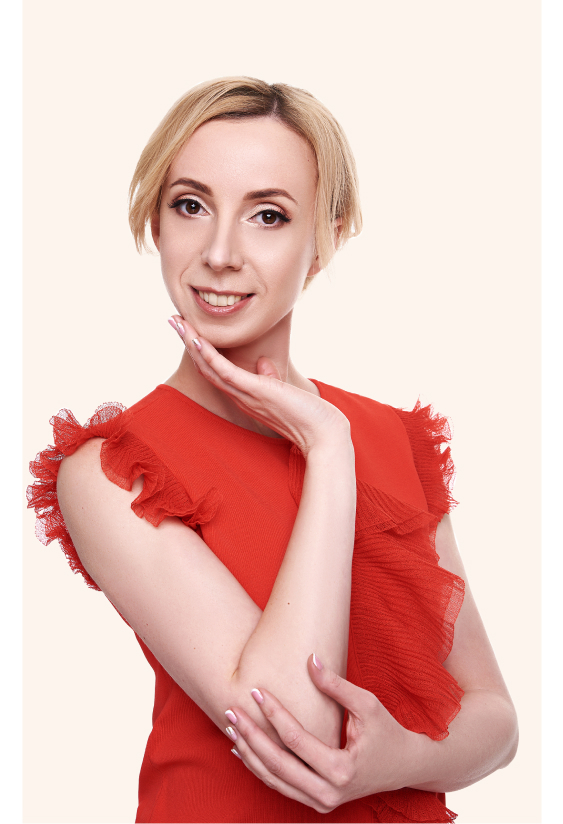
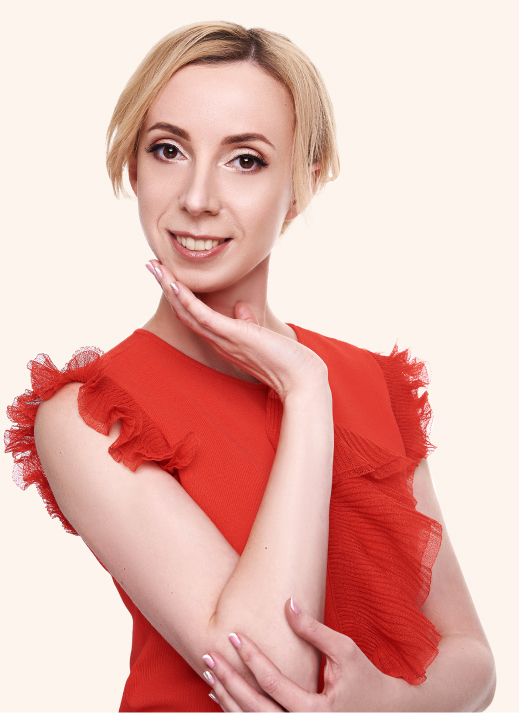
fix main block

Changed region(s): [[0.0, 0.0309, 0.9557, 1.0]]

diff --git a/index.html b/index.html
@@ -9,7 +9,7 @@
     <link rel="stylesheet" href="sass/style.css">
 </head>
 <body>
-    <header class="header mb-170">
+    <header class="header mb-120">
         <nav class="navbar navbar-expand-lg navbar-light">
             <div class="container">
                 <a class="navbar-brand" href="#"><img src="images/logo.svg"></a>
@@ -50,7 +50,7 @@
         <div class="offer">
             <div class="container">
                 <div class="row">
-                    <div class="col-lg-7">
+                    <div class="col-lg-7 text-lg-start text-center">
                         <h1>Онлайн-курс по фейсфитнесу с личным тренером</h1>
                         <div class="header-desc">для тех, кто хочет сохранить молодость
                             и красоту своего лица</div>
@@ -78,11 +78,15 @@
                             </div>
                         </div>
                     </div>
-                    <div class="col-lg-5">
+                    <div class="col-lg-5 d-lg-block d-none">
                         <div class="hero"></div>
                     </div>
                 </div>
             </div>
+        </div>
+        <div class="d-block d-lg-none position-relative">
+            <div class="hero-mobile-decor"></div>
+            <div class="hero-mobile w-100 h-100"></div>
         </div>
     </header>
 
@@ -610,13 +614,11 @@
                             </div>
                             <div class="col-lg-3 col-6">
                                 <div class="card-body">
-                                    <div class="card-before">До</div>
                                     <img src="images/photo_before.png" alt="Photo before" class="w-100 h-100">
                                 </div>
                             </div>
                             <div class="col-lg-3 col-6">
                                 <div class="card-body">
-                                    <div class="card-after">После</div>
                                     <img src="images/photo_after.png" alt="Photo after" class="w-100 h-100">
                                 </div>
                             </div>
@@ -634,13 +636,11 @@
                             </div>
                             <div class="col-lg-3 col-6">
                                 <div class="card-body">
-                                    <div class="card-before">До</div>
                                     <img src="images/photo_before_2.png" alt="Photo before" class="w-100 h-100">
                                 </div>
                             </div>
                             <div class="col-lg-3 col-6">
                                 <div class="card-body">
-                                    <div class="card-after">После</div>
                                     <img src="images/photo_after_2.png" alt="Photo after" class="w-100 h-100">
                                 </div>
                             </div>
@@ -658,13 +658,11 @@
                             </div>
                             <div class="col-lg-3 col-6">
                                 <div class="card-body">
-                                    <div class="card-before">До</div>
                                     <img src="images/photo_before_3.png" alt="Photo before" class="w-100 h-100">
                                 </div>
                             </div>
                             <div class="col-lg-3 col-6">
                                 <div class="card-body">
-                                    <div class="card-after">После</div>
                                     <img src="images/photo_after_3.png" alt="Photo after" class="w-100 h-100">
                                 </div>
                             </div>

diff --git a/sass/style.css b/sass/style.css
@@ -128,6 +128,10 @@ h4 {
   padding-top: 120px;
 }
 
+.pt-160 {
+  padding-top: 160px;
+}
+
 .pb-120 {
   padding-bottom: 120px;
 }
@@ -138,10 +142,6 @@ h4 {
 
 .mb-120 {
   margin-bottom: 120px;
-}
-
-.mb-170 {
-  margin-bottom: 170px;
 }
 
 .btn:active, .btn:focus {
@@ -188,12 +188,16 @@ h4 {
 
   .info-desc {
     font-size: 24px !important;
-    line-height: 30px !important;
+    line-height: 36px !important;
   }
 
   .offer-desc {
     font-size: 18px !important;
     line-height: 30px !important;
+  }
+
+  .header-desc {
+    margin: 12px 0 25px !important;
   }
 
   .pt-120 {
@@ -210,6 +214,31 @@ h4 {
 
   .mb-120 {
     margin-bottom: 60px;
+  }
+
+  .hero-mobile {
+    position: relative;
+    bottom: 0;
+    left: 0;
+    background: url(../images/hero_mobile.jpg) no-repeat center center;
+    min-height: 420px;
+  }
+
+  .hero-mobile-decor {
+    background: #ECE1D5 !important;
+    position: absolute;
+    width: 100%;
+    height: 50%;
+  }
+
+  .offer {
+    background: #ECE1D5 !important;
+    padding: 24px 0 !important;
+  }
+
+  .navbar {
+    padding-bottom: 30px !important;
+    margin-bottom: 0 !important;
   }
 
   .owl-carousel .owl-nav button.owl-prev {
@@ -249,16 +278,6 @@ h4 {
   }
   .card .card-footer {
     width: 100% !important;
-  }
-
-  .card-before {
-    left: 23% !important;
-    font-size: 16px !important;
-  }
-
-  .card-after {
-    left: 71% !important;
-    font-size: 16px !important;
   }
 
   .contacts {
@@ -321,16 +340,6 @@ h4 {
 
   .btn-primary {
     padding: 18px 30px !important;
-  }
-
-  .card-before {
-    left: 23% !important;
-    font-size: 14px !important;
-  }
-
-  .card-after {
-    left: 71% !important;
-    font-size: 14px !important;
   }
 
   card {
@@ -459,6 +468,10 @@ h4 {
   z-index: -1;
 }
 
+.offer {
+  background: transparent;
+}
+
 .advantages-list {
   list-style-type: none;
 }
@@ -541,24 +554,6 @@ h4 {
 }
 .testimonials .card-body {
   padding: 0 10px;
-}
-.testimonials .card-before {
-  position: absolute;
-  bottom: 40px;
-  left: 62%;
-  font-weight: 600;
-  font-size: 20px;
-  line-height: 36px;
-  color: #ffffff;
-}
-.testimonials .card-after {
-  position: absolute;
-  bottom: 40px;
-  left: 85%;
-  font-weight: 600;
-  font-size: 20px;
-  line-height: 36px;
-  color: #ffffff;
 }
 .testimonials .owl-carousel .owl-nav button.owl-next span {
   display: none;

diff --git a/sass/media.scss b/sass/media.scss
@@ -17,11 +17,14 @@
   }
   .info-desc {
     font-size: 24px!important;
-    line-height: 30px!important;
+    line-height: 36px!important;
   }
   .offer-desc {
     font-size: 18px!important;
     line-height: 30px!important;
+  }
+  .header-desc {
+    margin: 12px 0 25px!important;
   }
   .pt-120 {
     padding-top: 60px;
@@ -34,6 +37,27 @@
   }
   .mb-120 {
     margin-bottom: 60px;
+  }
+  .hero-mobile {
+    position: relative;
+    bottom: 0;
+    left: 0;
+    background: url(../images/hero_mobile.jpg) no-repeat center center;
+    min-height: 420px;
+  }
+  .hero-mobile-decor {
+    background: $beige-color!important;
+    position: absolute;
+    width: 100%;
+    height: 50%;
+  }
+  .offer {
+    background: $beige-color!important;
+    padding: 24px 0!important;
+  }
+  .navbar {
+    padding-bottom: 30px!important;
+    margin-bottom: 0!important;
   }
   .owl-carousel {
     .owl-nav button.owl-prev {
@@ -72,14 +96,6 @@
     .card-footer {
       width: 100%!important;
     }
-  }
-  .card-before {
-    left: 23% !important;
-    font-size: 16px!important;
-  }
-  .card-after {
-    left: 71% !important;
-    font-size: 16px!important;
   }
   .contacts {
     background: none!important;
@@ -133,14 +149,6 @@
   }
   .btn-primary {
     padding: 18px 30px!important;
-  }
-  .card-before {
-    left: 23% !important;
-    font-size: 14px!important;
-  }
-  .card-after {
-    left: 71% !important;
-    font-size: 14px!important;
   }
   card {
     min-height: 626px;

diff --git a/sass/style.scss b/sass/style.scss
@@ -122,6 +122,10 @@
   z-index: -1;
 }
 
+.offer {
+  background: transparent;
+}
+
 .advantages-list {
   list-style-type: none;
   li {
@@ -209,24 +213,6 @@
   }
   .card-body {
     padding: 0 10px;
-  }
-  .card-before {
-    position: absolute;
-    bottom: 40px;
-    left: 62%;
-    font-weight: 600;
-    font-size: 20px;
-    line-height: 36px;
-    color: $white-color;
-  }
-  .card-after {
-    position: absolute;
-    bottom: 40px;
-    left: 85%;
-    font-weight: 600;
-    font-size: 20px;
-    line-height: 36px;
-    color: $white-color;
   }
   .owl-carousel {
     .owl-nav button.owl-next span {

diff --git a/sass/typography.scss b/sass/typography.scss
@@ -138,6 +138,9 @@ h4 {
 .pt-120 {
   padding-top: 120px;
 }
+.pt-160 {
+  padding-top: 160px;
+}
 
 .pb-120 {
   padding-bottom: 120px;
@@ -149,8 +152,4 @@ h4 {
 
 .mb-120 {
   margin-bottom: 120px;
-}
-
-.mb-170 {
-  margin-bottom: 170px;
 }
